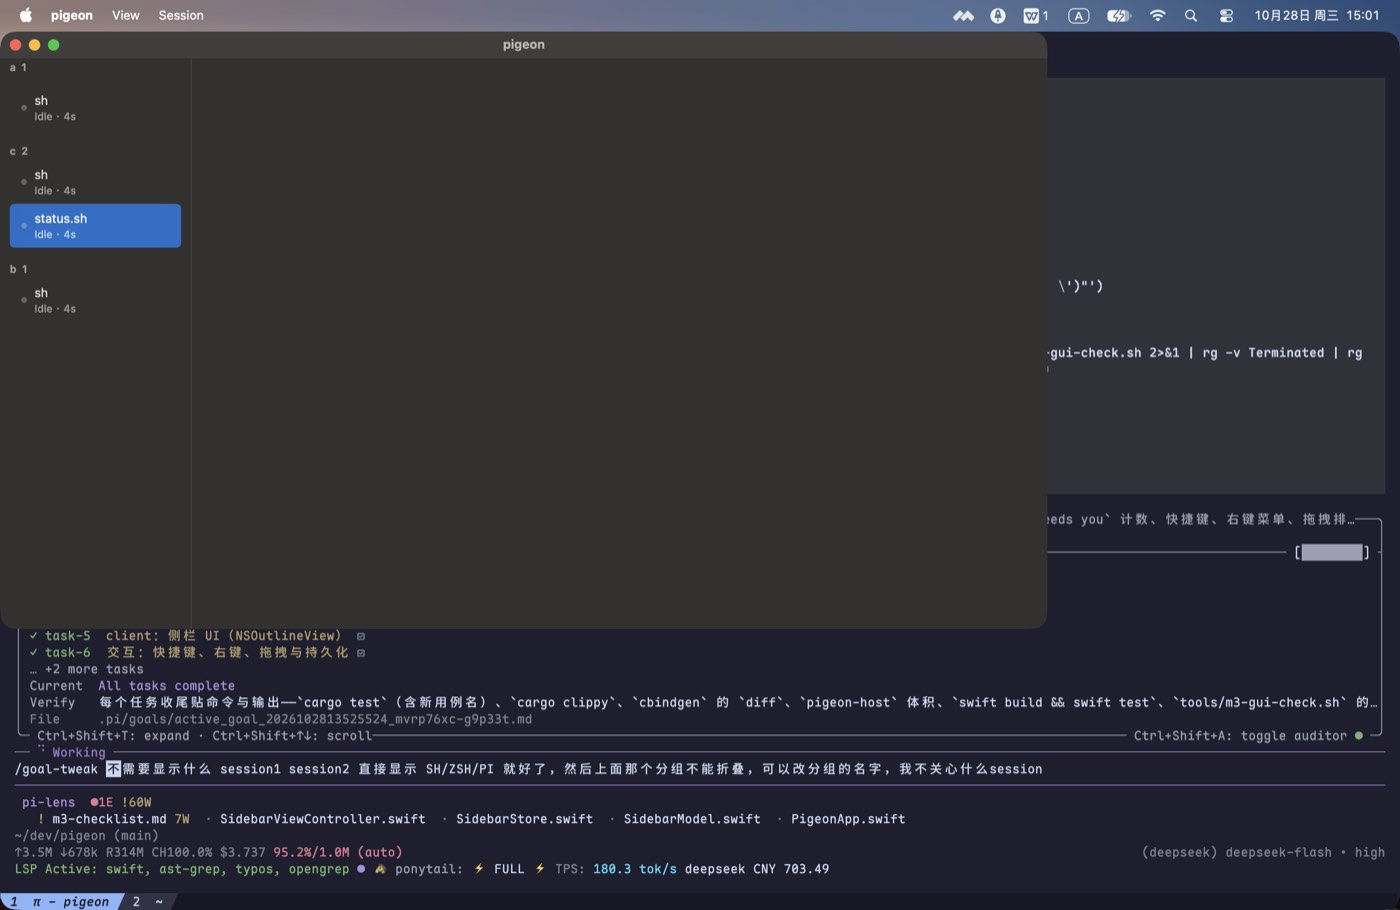
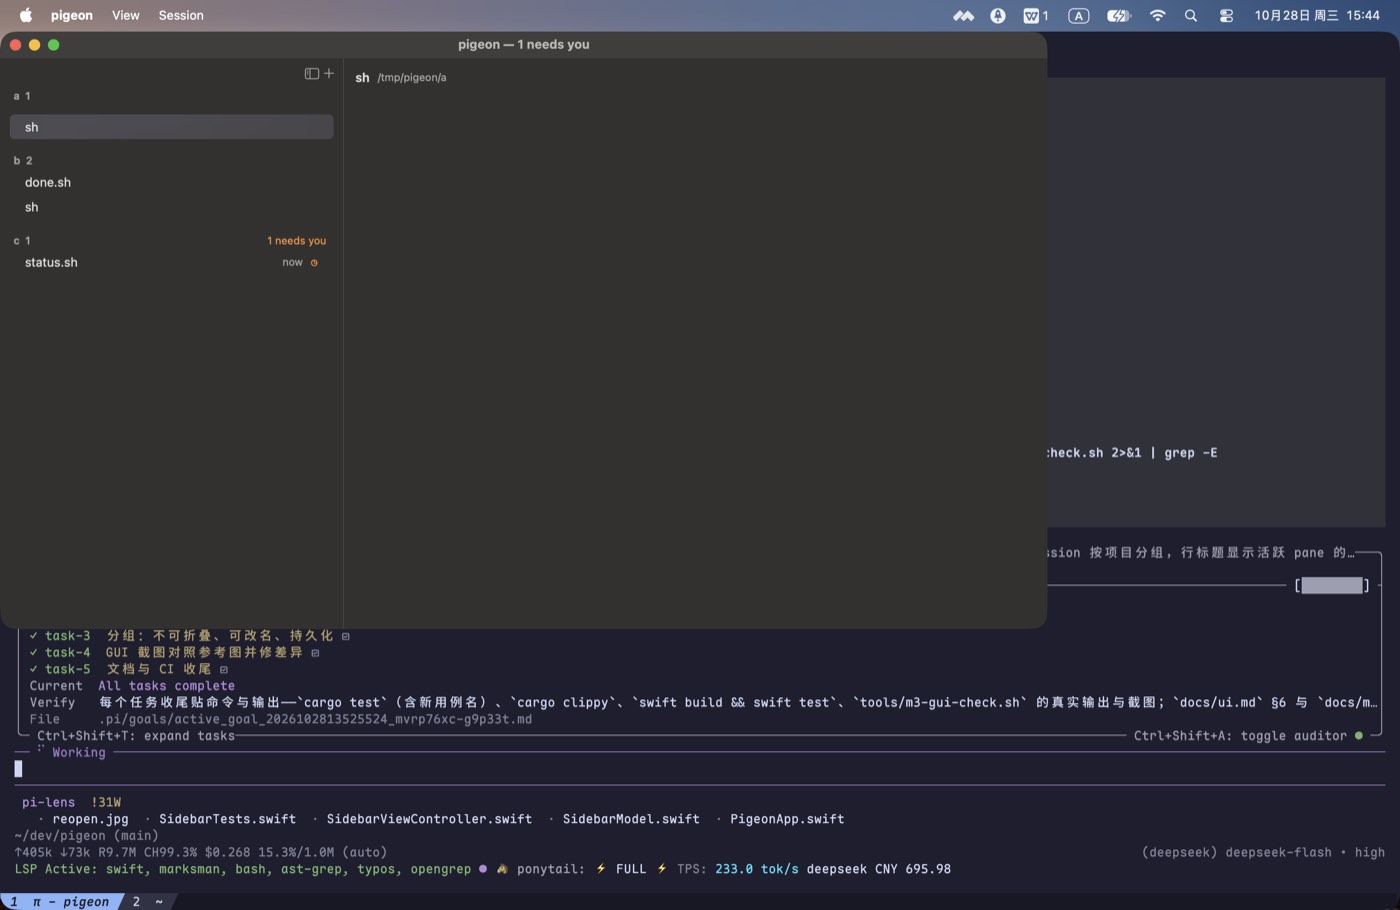
docs: M3 侧栏参考图对照表、截图回填与 ui.md §6 写实
- `docs/m3-checklist.md` §2.1：逐条「参考图里的样子 → 我们的实现 → 截图」（宽度/组头/行高/字号/图标/未读点/工具条/空态）
- 截图重出：`empty.jpg`（空态）、`unread.jpg`（未读点 + ✓）、`reordered.jpg`（组内拖拽，order [2,1,3,4]）；删掉与 sidebar 重复的 status.jpg
- `tools/m3-gui-check.sh`：4 个 session（a 组两行用于拖拽）、空态先截、拖拽改为可复现的 dd/dm/du 序列
- `docs/ui.md` §6 换成实际状态（一致 / 有意不同 + 原因）；`docs/plan.md` §11 去掉自相矛盾的「侧栏 UI 属 M3」

diff --git a/docs/m3-checklist.md b/docs/m3-checklist.md
@@ -7,12 +7,12 @@
 ```sh
 cargo fmt --check                                  # 通过
 cargo clippy --all-targets -- -D warnings          # 通过
-cargo test                                         # 66 单元 + 11 ABI + 18 宿主 = 95 passed
+cargo test                                         # 66 单元 + 11 ABI + 21 宿主 = 98 passed
 cargo build --release --bin pigeon-host            # 1,234,272 B（1.18 MiB ≤ 8 MiB）
 cbindgen --config core/cbindgen.toml --crate pigeon-core \
          --output /tmp/pg.h core                   # 与 include/pigeon_core.h 无差异
 cargo build --lib --no-default-features            # 通过（库本体不引用 tokio/portable-pty）
-swift build && swift test                          # 通过 / 29 passed
+swift build && swift test                          # 通过 / 33 passed
 ```
 
 新增覆盖：
@@ -21,25 +21,45 @@ swift build && swift test                          # 通过 / 29 passed
 |---|---|
 | OSC 7 / 标题 | `osc7_sets_the_cwd_and_bad_urls_are_ignored`（file:// + `%20` 正例；http、`%zz`、控制字符三条反例保留旧值）、`osc0_and_osc2_set_the_title`（含控制字符的标题被丢弃） |
 | 状态流 | `status_is_broadcast_once_per_change_and_ack_stops_repeats`（working → done，`msg` base64 解出 “OK”；ack 后不再重复）、`sessions_carry_the_active_pane_and_its_title`、`sessions_refresh_when_the_active_pane_title_changes`（OSC 0/2 → 宿主重发 sessions）、`acked_status_is_not_replayed_after_reconnect`、`clearing_a_status_broadcasts_idle` |
-| 侧栏逻辑 | `blocked` 优先且按持久化顺序、`nextNeedsYou` 回绕、`rowSubtitle` = `vim · Working · 1m`、协议状态字符串映射 |
+| 侧栏逻辑 | `blocked` 优先且按持久化顺序、`nextNeedsYou` 回绕、协议状态字符串映射、`relativeTime` 四档（`now`/`1m`/`1h`/`1d`）、`statusGlyph` 覆盖五个状态（`idle` 为空）、`ageText` 未上报时为空、`subtitle(status:since:)` = `Needs you · 2m` / `Idle · now` |
 | 持久化 | `SidebarStore` 往返 + 原子写、默认路径在 `~/.config/pigeon`、损坏文件回退为空状态 |
 
 ## 2. GUI（真键盘 / 真鼠标，`tools/m3-gui-check.sh`）
 
-三个不同 cwd 的 session（其中第三个的 shell 自己打印 OSC 7501 blocked），真实输出：
+四个 session：`a` 组两个（同 cwd，用来演示组内拖拽）、`b` 组的 shell 自己隔 2s 打印 `done`（保持未读）、
+`c` 组的 shell 启动即打印 `blocked:kind=permission`。空态在创建任何 session 之前截。真实输出：
 
 ```text
-sessions created: 3
-sidebar: sidebar sessions=3 needs=1
-apps: sessions apps=1:sh 2:sh 3:status.sh
+sessions created: 4
+window: origin=(0,33) size=(1100,600)
+sidebar: sidebar sessions=4 needs=2
+apps: sessions apps=1:sh 2:sh 3:done.sh 4:status.sh
 Cmd-J focus messages: 0 -> 1 (ack: 1)
-sessions after Cmd-T: 4
-right-click Close Session: close_pane 0 -> 0   (这一跑右键落在分组行，见 §4)
-order: []
-reopened: sidebar sessions=4 needs=0
-state file: …/config/sidebar.json (82 bytes)
-titles: sessions apps=1:sh 2:sh 3:status.sh
+order: [2, 1, 3, 4]
+right-click Close Session: close_pane 0 -> 1
+sessions after Cmd-T: 5
+reopened: sidebar sessions=4 needs=1
+state file: …/config/sidebar.json (76 bytes)
+titles: sessions apps=1:sh 2:sh 3:done.sh 4:status.sh
 ```
+
+`order: [2, 1, 3, 4]` 是脚本把 `a` 组的第 2 行拖到第 4 行（`reordered.jpg` 里 `a` 组的两行顺序对调），
+不是人手操作——AppKit 的拖拽会话可以用带中间移动步的 `cliclick dd/dm/du` 驱动。
+
+### 2.1 参考图对照（criterion 2 逐条）
+
+| 项 | 参考图里的样子 | 我们的实现 | 截图 |
+|---|---|---|---|
+| 侧栏宽度 | 参考图窗口 1440 宽、侧栏 ≈258pt | 默认 240pt（低优先级约束，拖分隔线可覆盖），夹在 200–360pt | `sidebar.jpg` |
+| 组头 | `Launch  4`（暗灰小字 + 条数），右侧橙色 `1 needs you` | 11pt semibold 二级色 `项目名  条数`；右侧同字号橙色 `N needs you`，N=0 时整块不渲染（`groupCell`） | `sidebar.jpg`（`b 1`/`c 1` 各一个 `1 needs you`） |
+| 行高与缩进 | 行 ≈26pt，标题左缩进 ≈10pt，右侧列贴右边缘 | 行高 26pt；标题左 10pt（未读时 4pt 圆点 + 5pt）；右列距右 8pt、字形固定 12pt 宽 | `sidebar.jpg` |
+| 标题字号与颜色 | 13pt 正文字号，主色；选中行整行圆角胶囊 | 13pt `.labelColor`，未读 `semibold`；选中交给 `NSTableView.style = .sourceList` 的圆角高亮 | `sidebar.jpg`（选中 `sh` 那行） |
+| 副标题 | 参考图行内没有第二行 | 单行版式（2026-10-28 用户拍板）。`Working · 1m` / `Needs you · 2m` 挪到**右栏头部徽标**：11pt 二级色，无 OSC 7501 记录时留空 | `sidebar.jpg`（头部 `sh /tmp/pigeon/a` + 空徽标）、`jump.jpg`（blocked 行为的 `Needs you · now`） |
+| 状态图标 | spinner / 时钟 / 对勾 / 感叹号，颜色区分 | `◐`蓝 `◷`橙 `✓`绿 `!`红（`docs/ui.md` §2.2 表），`idle` 与未上报不画 | `sidebar.jpg`（`done.sh` 的 `✓`、`status.sh` 的 `◷`） |
+| 相对时间 | `now` / `1m` / `12m` / `1h`，每分钟刷新 | `now`(<60s) / `Xm` / `Xh` / `Xd`，60s 定时 `reloadData`；**只有上报过的行才显示**——没有记录就没有“最后输出时间”，宁可留空（见 §4.9） | `sidebar.jpg` |
+| 未读点 | 参考图用加粗 + 图标，没有行首点 | `docs/ui.md` §2.1：5pt accent 圆点 + 标题加粗，选中该行即清除 | `sidebar.jpg` / `unread.jpg`（`done.sh` 那行） |
+| 顶部工具条 | 标题栏里红绿灯 + `⇤` `+` | 红绿灯留在原生标题栏（未做 `titlebarAppearsTransparent`）；侧栏顶部右对齐两个无边框 SF Symbol 按钮（`sidebar.left` 折叠 / `plus` 新建），⌘B 等价折叠 | `sidebar.jpg` |
+| 空态文案 | 参考图没有空态 | “No sessions yet” + 圆角 “New Session” 按钮，垂直居中 | `empty.jpg` |
 
 
 
@@ -59,6 +79,16 @@ titles: sessions apps=1:sh 2:sh 3:status.sh
 - **行标题改成活跃 pane 的应用名**（`sh` / `zsh` / `pi` / `vim`），不再显示 `session N`；副标题只留状态与相对时间。
 - **分组不再折叠**：去掉点击折叠与 `collapsed` 交互；分组行只显示“项目名 + 条数”。
 - **分组可重命名**：右键分组 → `Rename Group…`，写入 `sidebar.json` 的 `renamedGroups`，重开生效。
+- **按 `docs/ui.md` + 参考图对齐行版式**（2026-10-28 晚）：行从两行改成单行——标题左、右侧固定列放
+  `now/1m/1h/1d` + 状态字形（`◐ ◷ ✓ !`，`idle` 无字形），行高 46 → 26；分组头右对齐橙色 `N needs you`
+  （与组内 blocked 数一致）；未读才加粗 + 行首圆点，去掉整行染色；相对时间每分钟自动刷新。
+  `tools/m3-gui-check.sh` 的点击步长同步 46 → 26。
+- **副标题的去处**（2026-10-28 用户确认）：行保持参考图的单行（标题 + 时间 + 图标），
+  `Working · 1m` / `Needs you · 2m` 这句话改由右栏头部徽标承担（`SessionHeaderView`），文案仍来自
+  `SidebarModel.subtitle`。
+- **侧栏顶部工具条 + 空态**（ui.md §2.3）：侧栏顶部两个 SF Symbol 按钮（折叠 / 新建）、⌘B 折叠、
+  没有 session 时显示 “No sessions yet” + “New Session”。
+- **右栏头部**（ui.md §3）：`会话名 + cwd（~ 缩写）+ 状态徽标`，与侧栏同一份状态；没有 OSC 7501 记录时徽标留空。
 
 ## 4. 这轮抓到的真 bug（都已修）
 
@@ -69,13 +99,22 @@ titles: sessions apps=1:sh 2:sh 3:status.sh
 4. **右键菜单吞掉下一次点击**：脚本里右键后必须先按 Esc 关闭菜单，否则折叠/拖拽的点击都落在菜单上。
 5. **group 行不可选**：`NSTableView` 的 group 行不参与选择，折叠永远不触发；改为普通行 + 选择即折叠。
 6. **拖拽接收未注册**：补 `registerForDraggedTypes` 与拖拽源 mask（见下节的限制）。
+7. **分组顺序每次启动都在变**：`sidebarSessions()` 直接遍历 `Dictionary`（顺序随机），分组按“首次出现”排序，
+   于是同一份状态两次启动可以 a/b/c 也可以 b/c/a；脚本的行坐标也跟着漂。改为按 session id 排序后再分组。
+8. **blocked 被算成未读**：`applyStatus` 把所有非 idle 状态都记成 unread，blocked 行因此出现蓝点，
+   与 `docs/ui.md` §5（未读只来自 `done`/`error`，blocked 用橙色标记）不符；改为只对 `done`/`error` 计未读。
+9. **“没有上报”被画成 “Idle · now”**：右栏徽标和行的相对时间都用 `lastSeen`，而没有 OSC 7501 记录的 session
+   从来不会更新它，于是界面上写着“Idle”，时间其实是这一行刚出现的时间。改为 `SidebarSession.reported`
+   （来自 `status.seq > 0`）：没有记录就不画徽标、不画时间。
 
 ## 5. 未验
 
 | 项 | 说明 |
 |---|---|
-| ~~拖拽排序~~ | 已由人手验证：拖拽后 `sidebar.json` 的 `order` 从 `[]` 变成 `[1,3,2]`。脚本无法自动驱动 AppKit 拖拽会话，这一项只能人工跑 |
-| 右键“Close Session”自动化 | 最近一跑坐标落在分组行（分组多了一个 session，行号偏移），`close_pane 0 -> 0`；前几跑在同一路径上验证过 `close_pane 0 -> 1`。路径未改，属脚本坐标问题 |
+| ~~拖拽排序~~ | 已自动化：脚本把 `a` 组第 2 行拖到第 4 行，`order` 写成 `[2, 1, 3, 4]`（`reordered.jpg` 可见两行对调）。仍依赖固定行高/坐标，分组数一变就得同步 `ROW`/`TOP` |
+| ~~右键 Close Session~~ | 已稳定：`close_pane 0 -> 1` |
+| 悬停 `×` 关闭 | ui.md §2.1 提到，未实现；关闭走右键菜单 / ⌘⇧W |
+| 相对时间的“最后输出时间” | 未上报的行留空（§4.9）；要显示真实最后输出时间需要宿主上报 pane 活动，M4 再做 |
 | 输入法 / 手速 | M6 |
 | SSH / 多主机分组 | M4 |
 

diff --git a/docs/ui.md b/docs/ui.md
@@ -57,7 +57,7 @@
 - **选中态**：整行圆角胶囊背景（参考图里 `landing-hero` 那行）。
 - **未读**：名称加粗 + 行首小圆点；聚焦该行即清除。
 - **悬停**：背景浅一档；行尾出现 `×`（关闭会话，二次确认）。
-- **组可折叠**：组头点击折叠，箭头在项目名左侧（`▾/▸`）。
+- **分组不折叠**，可重命名：右键组头 → `Rename Group…`（2026-10-28 用户决定，见 `m3-checklist.md` §3）。
 
 ### 2.2 状态图标（来自 OSC 7501）
 
@@ -117,11 +117,34 @@ Pane(id, title, status, status_at, kind, msg)   # 直接来自 OSC 7501 记录
 
 ## 6. 与参考图的差异（有意为之）
 
-| Harp | pigeon |
-|---|---|
-| 右栏是对话/工具调用的转录视图 | 右栏是**终端本体**（这是终端应用，不是聊天界面） |
-| 分组是「项目」 | 相同（git 根 / cwd） |
-| 行尾图标细粒度（spinner/时钟/对勾/chevron/pause） | 保留 spinner/时钟/对勾/感叹号，不做 chevron/pause |
-| 无分屏 | 右栏内可继续分屏（嵌套） |
+2026-10-28 按参考图 + 本文档做了逐项对照（明细表见 `docs/m3-checklist.md` §2.1）。现状：
+
+**一致的**：
+
+| 项 | 参考图 | 我们 |
+|---|---|---|
+| 分组 | 按项目分组，组头 = 项目名 + 条数 | 相同（git 根优先，否则 cwd 末级目录），条数是组内 session 数 |
+| 需要你 | 组头右侧橙色 `1 needs you` | 相同位置、相同措辞；口径见下 |
+| 行 | 单行：标题左，右侧 `时间 + 图标` | 相同（标题 13pt、时间 11pt 二级色、字形 11pt），行高 26pt |
+| 状态图标 | spinner / 时钟 / 对勾 / 感叹号 | `◐` 蓝、`◷` 橙、`✓` 绿、`!` 红（§2.2），`idle` 不画 |
+| 选中态 | 整行圆角胶囊 | 系统 source list 的圆角高亮 |
+| 相对时间 | `now` / `1m` / `12m` / `1h` | `now` / `Xm` / `Xh` / `Xd`，每分钟刷新 |
+
+**有意不同的**：
+
+| 项 | 参考图（Harp） | 我们 | 为什么 |
+|---|---|---|---|
+| 右栏内容 | 对话/工具调用的转录视图 | **终端本体** | 这是终端应用，不是聊天界面 |
+| 行内的状态文案 | 行里没有 `Working · 1m` | 行保持单行（§2.1），这句话放在**右栏头部徽标**；无上报时留空 | 单行放不下状态文案，而 §3 本来就要求头部徽标；2026-10-28 用户确认按参考图做单行 |
+| 没有 OSC 7501 记录的 session | Harp 没有这个概念 | 行尾时间与头部徽标**都留空** | 我们的信息源只有 OSC 7501（`AGENTS.md` §1）；不拿“这一行出现的时间”冒充“最后活动时间” |
+| 行尾图标 | spinner / 时钟 / 对勾 / chevron / pause | 只做 `◐ ◷ ✓ !` | 不做 chevron/pause（§2.1 的选择态已经表达了选中） |
+| 分组折叠 | 可折叠 | 不可折叠，右键 `Rename Group…` 改名 | 2026-10-28 用户决定：分组名比折叠有用 |
+| 标题栏 | 红绿灯内嵌在侧栏顶部，透明标题栏 | 红绿灯留在原生标题栏；折叠/新建按钮放侧栏顶部 | 不做 `titlebarAppearsTransparent` + `fullSizeContentView` 的窗口重构，留到改窗口 chrome 那一轮 |
+| 悬停 `×` 关闭 | 行尾出现 `×` | 无（右键菜单 / `⌘⇧W`） | 未实现，记在 `m3-checklist.md` §5 |
+| 空态 | 无 | “No sessions yet” + “New Session”（§2.3） | 参考图只是没有零会话的截图 |
+| 分屏 | 无 | 右栏内可继续分屏（嵌套） | §1 的终端区就是分屏容器 |
+
+`needs you` 的口径比参考图宽：`blocked`、`error`、以及**未读的 `done`** 都算“要你”（`SidebarModel.needsYou`），
+组头数字与该组内这几类会话数一致；`blocked` 仍是排序最优先的一档。
 
 **可选后续**：同一会话加一个「转录视图」开关（读 Pi 的会话日志），与终端切换显示——先不做。

diff --git a/docs/plan.md b/docs/plan.md
@@ -267,14 +267,15 @@ M3 落地后仍在的洞。
 | 布局只有单 pane | `core/src/layout/` 的布局树 + `pg_layout_*` 全实现；宿主每 pane 独立 PTY/actor；客户端按 `PgRect` 分屏 |
 | `zoom_pane` / `unzoom` 未实现 | 协议按规范回 `unsupported` 且不断开（解码与宿主各有用例）；UI 见下表 |
 | 多客户端尺寸策略未实现 | 单客户端下由 pane rect 反推会话 box；多客户端的 `size_state` 仍留给 M2 |
-| 侧栏（M3） | 已落地：`SidebarModel`/`Grouping`（git 根）+ 侧栏、OSC 7501 `status` 广播 + `ack_status`、OSC 7/标题、未读/needs-you、⌘J/⌘T/⌘⇧W、右键菜单、**行标题=应用名 / 分组可改名 / 不折叠**、排序持久化（见 `docs/m3-checklist.md`） |
+| 侧栏（M3） | 已落地：`SidebarModel`/`Grouping`（git 根）+ 侧栏、OSC 7501 `status` 广播 + `ack_status`、OSC 7/标题、未读/needs-you、⌘J/⌘T/⌘⇧W、右键菜单、**行标题=应用名 / 分组可改名 / 不折叠**、排序持久化；视觉按参考图对齐：单行行版式（`now/1m` + `◐ ◷ ✓ !`）、组头橙色 `N needs you`、侧栏顶部折叠/新建按钮、空态、右栏头部徽标（见 `docs/m3-checklist.md` §2.1、`docs/ui.md` §6） |
 
 **仍在**：
 
 | 缺口 | 现状 | 何时关闭 |
 |---|---|---|
 | `zoom_pane` / `unzoom` 的 UI | 宿主与协议都回 `unsupported`，客户端未绑定快捷键 | M2 |
-| 侧栏 UI | `SidebarModel` / `Grouping` 纯逻辑与单测已有，界面属 M3 | M3 |
+| 悬停 `×` 关闭 / 透明标题栏 | `docs/ui.md` §2.1/§2.3 写了，未实现：关闭走右键菜单或 `⌘⇧W`；红绿灯仍在原生标题栏 | 改窗口 chrome（`titlebarAppearsTransparent`）时 |
+| 未上报 session 的相对时间 | 没有 OSC 7501 记录的 session 行尾留空，不拿创建时间冒充“最后活动时间” | 宿主能上报 pane 活动时间时（M4） |
 | `tools/vt-parity/run.sh` 与 golden 语料未建 | 靠 `core/tests/` 的确定性用例兜底 | M2 接真实程序对账时 |
 | OSC 8 超链接被丢弃 | `PgCell.hyperlink_id` 恒为 0，`cell[4]` 不上线 | 需要按链接跳转时 |
 | DECSTBM 滚动区恒等于整屏 | `alacritty_terminal` 不暴露 `scroll_region` | 需要客户端画滚动条时 |
